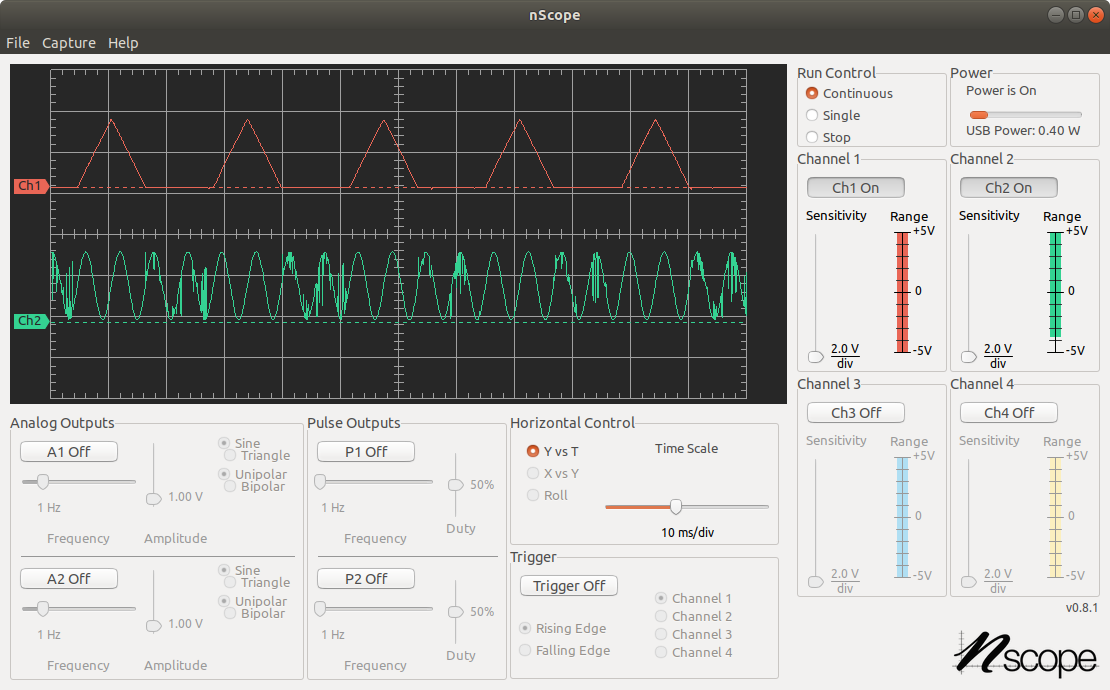
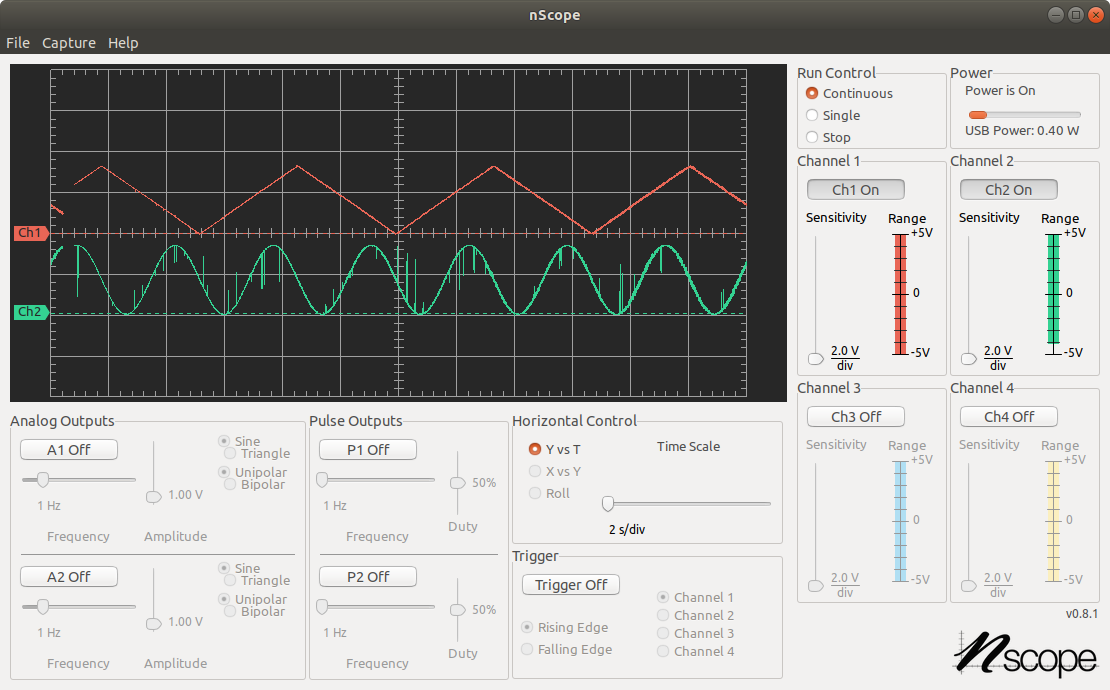
modify code

diff --git a/hw4/HW4.X/main.c b/hw4/HW4.X/main.c
@@ -45,6 +45,8 @@ void setVoltage(char chn, float v);
 
 
 int main(void) {
+    TRISAbits.TRISA4 = 0;
+    
     __builtin_disable_interrupts();
         // set the CP0 CONFIG register to indicate that kseg0 is cacheable (0x3)
     __builtin_mtc0(_CP0_CONFIG, _CP0_CONFIG_SELECT, 0xa4210583);
@@ -61,19 +63,20 @@ int main(void) {
     initSPI1();
     int i=0;
     __builtin_enable_interrupts();
-    TRISAbits.TRISA4 = 0;
+    
+    
     while(1) {
-//	_CPO_SET_COUNT(0);
+	_CP0_SET_COUNT(0);
      
-     LATAbits.LATA4=0;
+     LATAbits.LATA4=1;
      
     
-    float sin = 1.65+1.65*sin(i*2*3.1415/100);  //should make a 10Hz sin wave)
-    float tri = 3.3*(2/3.1415)*asin(sin(i*3.1415/200));
+    float sin = 1.65+1.65*sin(i*2*3.1415/0.1);  //should make a 10Hz sin wave)
+    float tri = 3.3*(2/3.1415)*asin(sin(i*3.1415/0.2));
 	i++;
      setVoltage(0,tri);
      setVoltage(1,sin);
-//	while(_CPO_GET_COUNT() < 2400000000/1000) {}  //check this is 24Million
+	while(_CP0_GET_COUNT() < 24000) {;}  //check this is 24Million
     ;
   }
   return 0;
